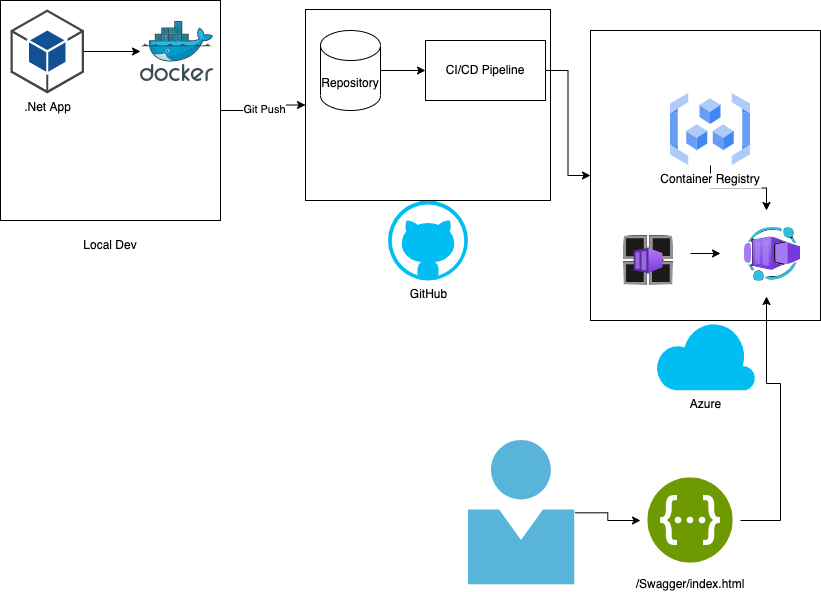
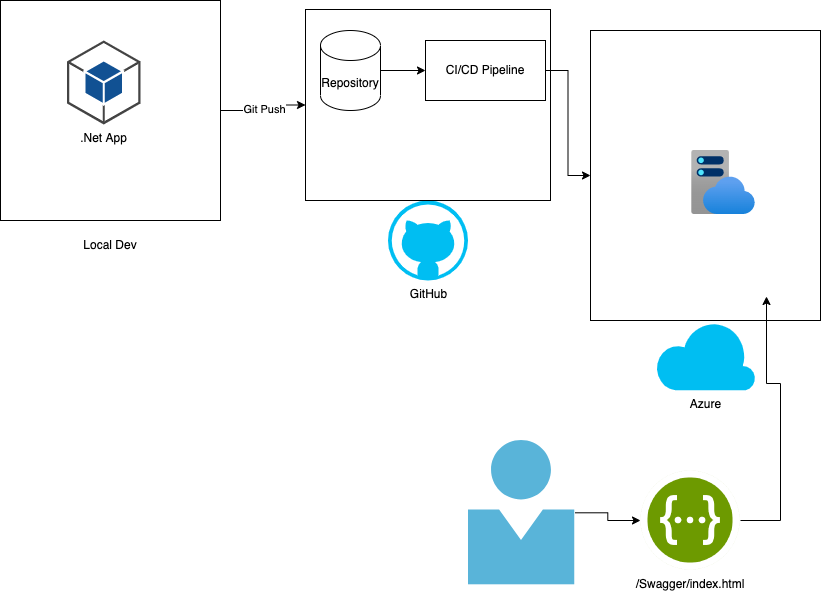
Adding solution

Changed region(s): [[0.0, 0.0, 0.2741, 0.2432], [0.7917, 0.152, 0.9744, 0.4865], [0.7613, 0.3953, 0.8222, 0.4865]]

diff --git a/GuidedWalkthroughs/Challenge_One_Walkthrough.md b/GuidedWalkthroughs/Challenge_One_Walkthrough.md
@@ -7,7 +7,7 @@ This challenge had a few separate use cases I have heard in the real world some 
 1. Implement a monitoring solution to know when the app does crash
 1. Implement a solution for displaying endpoint documentation
 
-There are a few different paths for this like right sizing app services, spinning them down outside of peak hours, external monitoring tools like datadog, and having a wiki. However, the solution I picked for sake of this argument is using Swagger code gen for documentation (I picked this because in the future an end user can consume your swagger docs to create middleware services, test your api with in browser UI, and a few other things that we'll talk about in later challenges), for newer technologies we are going to dockerize our API using Docker Desktop deployed to an Azure container app, and we will use app insights to setup email alerts whenever our API is having issues. Here's a picture of the overall infra we are talking about.
+There are a few different paths for this like right sizing app services, spinning them down outside of peak hours, external monitoring tools like datadog, and having a wiki. However, the solution I picked for sake of this argument is using Swagger code gen for documentation (I picked this because in the future an end user can consume your swagger docs to create middleware services, test your api with in browser UI, and a few other things that we'll talk about in later challenges), for newer technologies we are going to containerize our API using Rancher deployed to an Azure container app, and we will use app insights to setup email alerts whenever our API is having issues. Here's a picture of the overall infra we are talking about.
 
 ![Solution](media/Solution1.png "Solution")
 
@@ -121,4 +121,14 @@ If everything worked as expected you should see a new resource like this
 ![Solution1RG](media/Solution1RG.png "Solution1RG")
 you can also go to you app service to confirm the connection string is correct.
 ![ConfigAI](media/ConfigAI.png "ConfigAI").
-Now we can go to our app insights and we should see both success and errors if we go to our swagger page and hit things!
+Now we can go to our app insights and we should see both success and errors if we go to our swagger page and hit things! We can see our swagger urls here. ![DeployedSwagger](media/DeployedSwagger.png "DeployedSwagger")
+![FailedRequests](media/FailedRequests.png "FailedRequests")
+now app insights should be setup and going! Now we need to setup alerts!
+
+##### Alerts
+
+While you can do this via a Bicep file. I typically like to make these groups via the UI. They are usually small tweaks and can change regularly. A lot of times the people who manage alerts can also be off the dev team so this allows them to also change the groups as needed without the dev teams direct help. You can create an action group by clicking on Alerts. You want to click on that go to Alerts and then Create Alert Rule.
+![ActionGroup](media/ActionGroup.png "Action Group")
+Here we can select Exceptions and be alerted any time the aggregate exception count is greater than a set limit say 5 over a 5 minute period
+![Alert](media/Alert.png "Alert")
+This alert will cost roughly 10 cents per month and will let us know when exceptions are above 5 over a five minute average. You can tweak those numbers but for our demo that should be good. Actions we can set who and how we are alerted for example email or text. You can also alert Teams channels if you'd like. Then you are asked for details. Once that is done you are ready to be alerted on exceptions! Now we are ready to dockerize our app and use Rancher!
